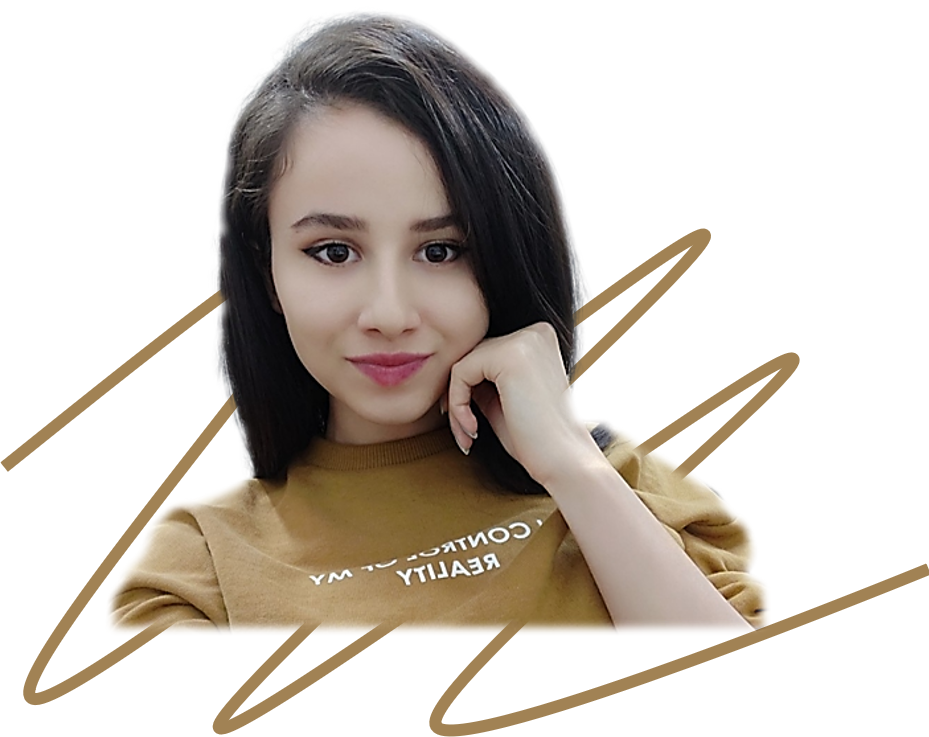
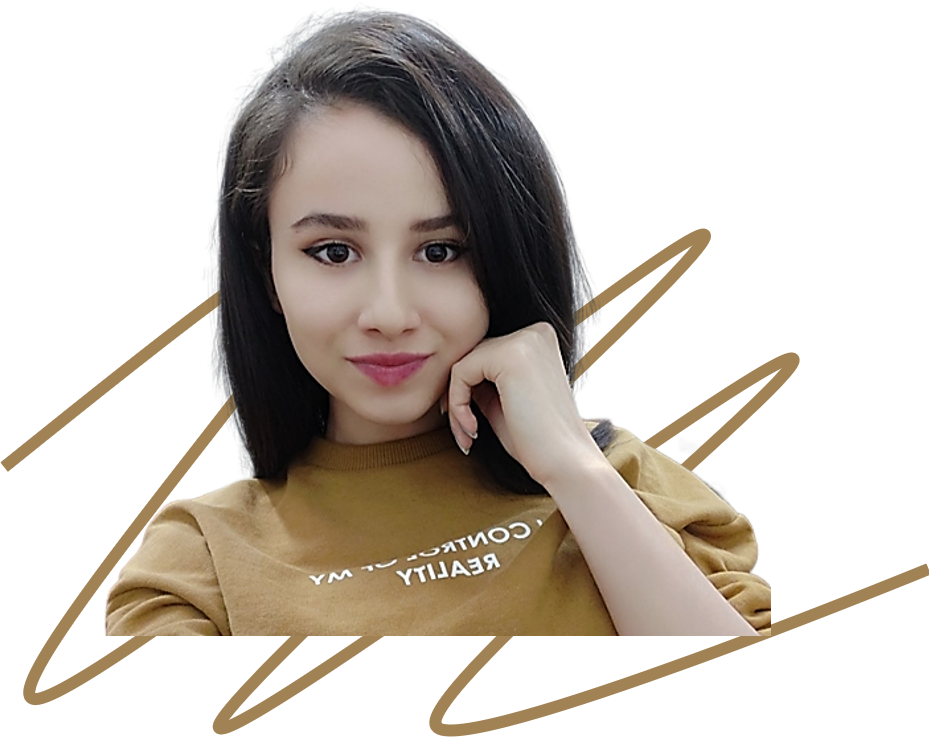
changed images

diff --git a/CSS/style.css b/CSS/style.css
@@ -229,15 +229,11 @@ input:checked + .darkLight:before {
 .myPortfoiloImage img {
     width: 24rem;
     padding-top: 10%;
-    height: 24rem;
+    height: 22rem;
     grid-area: rightIMG;
     float: right;
-    animation: rotatePhoto 7s infinite;
 }
-@keyframes rotatePhoto{
-    0% {transform: rotateY(60deg);}
-    100% {transform: rotateY(360deg);}
-}
+
 /* _________________________________________________________ */
 /* 🎯COVERUP~~~~~ with 'LOGO, Avatar, Welcoming' section */
 /* **👩💻for general */
